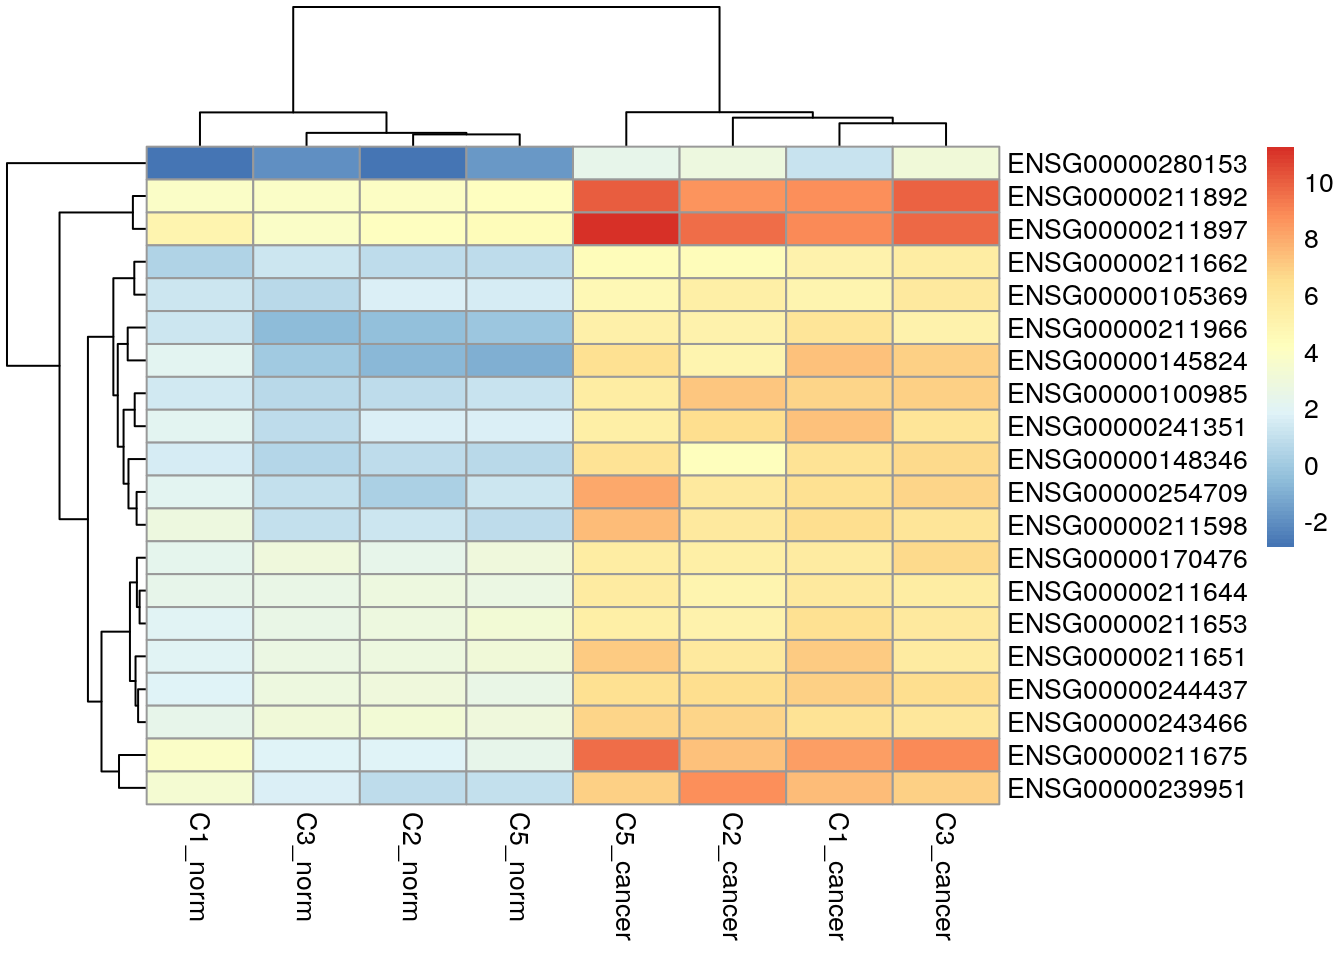
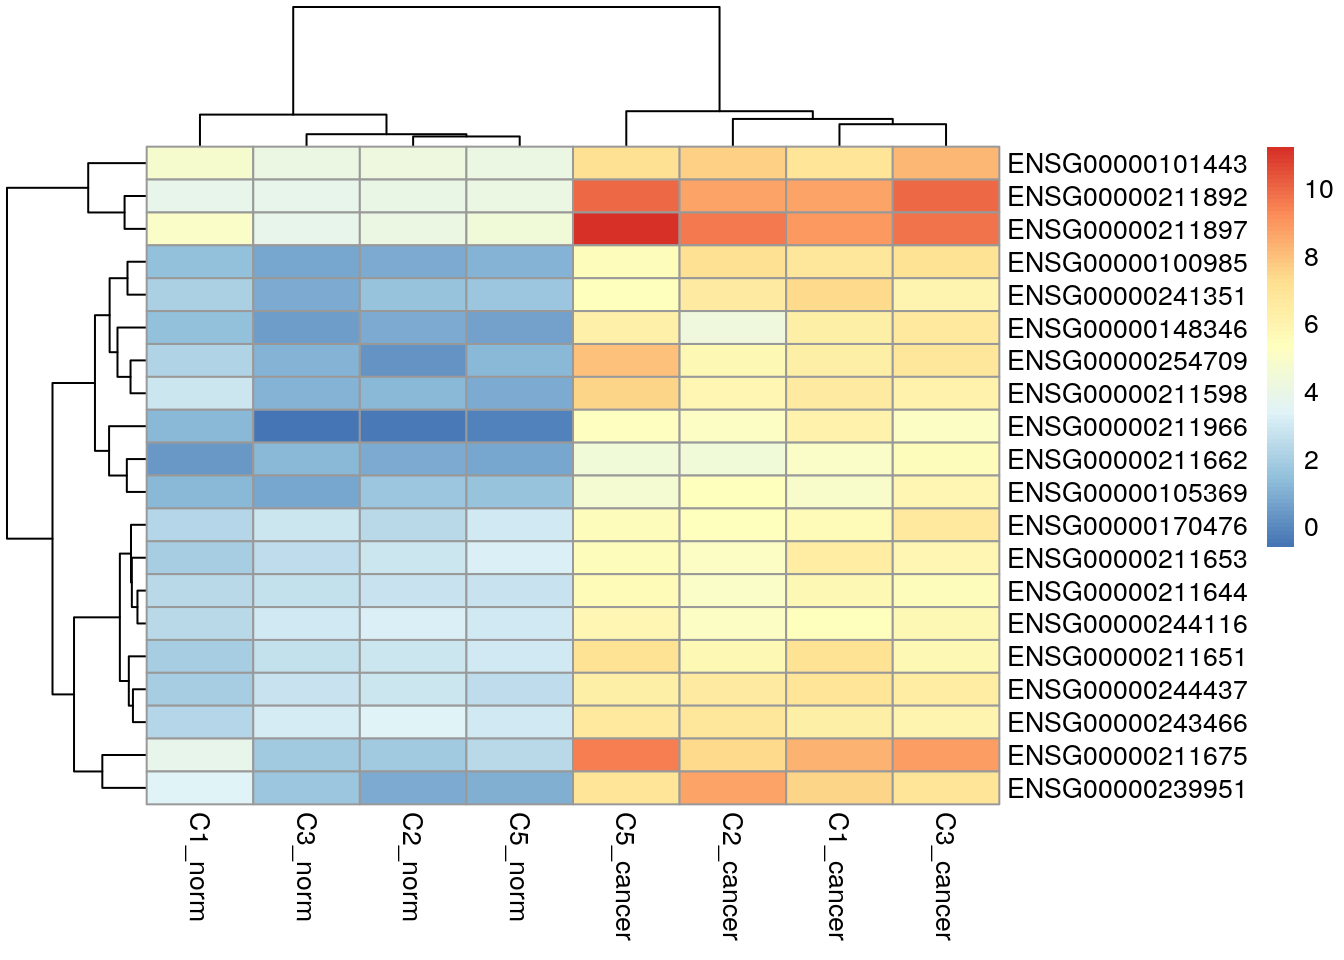
Build site.

diff --git a/docs/edger_de.html b/docs/edger_de.html
@@ -10,7 +10,7 @@
 
 
 
-<meta name="date" content="2024-10-22" />
+<meta name="date" content="2024-10-31" />
 
 <title>Differential gene expression analysis using edgeR</title>
 
@@ -360,7 +360,7 @@ div.tocify {
 
 <h1 class="title toc-ignore">Differential gene expression analysis using
 edgeR</h1>
-<h4 class="date">2024-10-22</h4>
+<h4 class="date">2024-10-31</h4>
 
 </div>
 
@@ -389,7 +389,7 @@ class="glyphicon glyphicon-ok text-success" aria-hidden="true"></span>
 <div class="tab-content">
 <div id="summary" class="tab-pane fade in active">
 <p>
-<strong>Last updated:</strong> 2024-10-22
+<strong>Last updated:</strong> 2024-10-31
 </p>
 <p>
 <strong>Checks:</strong> <span
@@ -520,15 +520,15 @@ project makes it easier to run your code on other machines.</p>
 <div class="panel panel-default">
 <div class="panel-heading">
 <p class="panel-title">
-<a data-toggle="collapse" data-parent="#workflowr-checks" href="#strongRepositoryversionstrongahrefhttpsgithubcomdavetangmusetreedda9d85bb9e9c9117d4f65bbdae02328ae957c9btargetblankdda9d85a">
+<a data-toggle="collapse" data-parent="#workflowr-checks" href="#strongRepositoryversionstrongahrefhttpsgithubcomdavetangmusetree92b951ca79310340c50fbcf9d3d8a59c7278a96btargetblank92b951ca">
 <span class="glyphicon glyphicon-ok text-success"
 aria-hidden="true"></span> <strong>Repository version:</strong>
-<a href="https://github.com/davetang/muse/tree/dda9d85bb9e9c9117d4f65bbdae02328ae957c9b" target="_blank">dda9d85</a>
+<a href="https://github.com/davetang/muse/tree/92b951ca79310340c50fbcf9d3d8a59c7278a96b" target="_blank">92b951c</a>
 </a>
 </p>
 </div>
 <div
[2 lines of base64/hex data omitted]
 class="panel-collapse collapse">
 <div class="panel-body">
 <p>
@@ -538,7 +538,7 @@ reproducibility.
 </p>
 <p>
 The results in this page were generated with repository version
-<a href="https://github.com/davetang/muse/tree/dda9d85bb9e9c9117d4f65bbdae02328ae957c9b" target="_blank">dda9d85</a>.
+<a href="https://github.com/davetang/muse/tree/92b951ca79310340c50fbcf9d3d8a59c7278a96b" target="_blank">92b951c</a>.
 See the <em>Past versions</em> tab to see a history of the changes made
 to the R Markdown and HTML files.
 </p>
@@ -561,6 +561,7 @@ Ignored files:
     Ignored:    r_packages_4.4.0/
 
 Untracked files:
+    Untracked:  data/13970886_edger_res.csv
     Untracked:  rsem.merged.gene_counts.tsv
 
 </code></pre>
@@ -606,6 +607,40 @@ Message
 </tr>
 </thead>
 <tbody>
+<tr>
+<td>
+Rmd
+</td>
+<td>
+<a href="https://github.com/davetang/muse/blob/92b951ca79310340c50fbcf9d3d8a59c7278a96b/analysis/edger_de.Rmd" target="_blank">92b951c</a>
+</td>
+<td>
+Dave Tang
+</td>
+<td>
+2024-10-31
+</td>
+<td>
+Export edgeR results
+</td>
+</tr>
+<tr>
+<td>
+html
+</td>
+<td>
+<a href="https://rawcdn.githack.com/davetang/muse/6aa4e2d485d9f744f1e0119c2d3a7aac934a1eee/docs/edger_de.html" target="_blank">6aa4e2d</a>
+</td>
+<td>
+Dave Tang
+</td>
+<td>
+2024-10-22
+</td>
+<td>
+Build site.
+</td>
+</tr>
 <tr>
 <td>
 Rmd
@@ -723,8 +758,8 @@ BiocManager::install(&quot;edgeR&quot;)</code></pre>
 </div>
 <div id="data" class="section level2">
 <h2>Data</h2>
-<p><a href="https://zenodo.org/records/13970886"
-class="uri">https://zenodo.org/records/13970886</a></p>
+<p>Use data from <a href="https://zenodo.org/records/13970886">An
+example RNA-seq count table using nf-core/rnaseq</a>.</p>
 <pre class="r"><code>my_url &lt;- &#39;https://zenodo.org/records/13970886/files/rsem.merged.gene_counts.tsv?download=1&#39;
 my_file &lt;- &#39;rsem.merged.gene_counts.tsv&#39;
 
@@ -880,17 +915,17 @@ fit &lt;- glmQLFit(y, design, robust=TRUE)
 res &lt;- glmQLFTest(fit)
 topTags(res)</code></pre>
 <pre><code>Coefficient:  y$samples$groupcancer 
-                    logFC   logCPM         F       PValue         FDR
-ENSG00000289381 -7.412756 2.341373 127.60623 2.767866e-08 0.001035846
-ENSG00000151834 -8.027915 3.644102  64.37842 1.049799e-06 0.003612063
-ENSG00000250696 -8.602174 3.809297  63.66033 1.249401e-06 0.003612063
-ENSG00000229894 -9.123230 4.910552  60.16361 1.751012e-06 0.003612063
-ENSG00000100985  5.735426 5.769059  99.70828 2.012691e-06 0.003612063
-ENSG00000167910 -8.022082 3.453041  56.63286 2.199494e-06 0.003612063
-ENSG00000196778 -8.815389 4.237774  56.19864 2.296578e-06 0.003612063
-ENSG00000166091 -7.247200 2.881457  54.63510 2.658697e-06 0.003612063
-ENSG00000240890 -9.077199 4.702122  53.69560 3.074356e-06 0.003612063
-ENSG00000224781 -7.116543 2.556254  51.43346 3.645089e-06 0.003612063</code></pre>
+                    logFC    logCPM         F       PValue          FDR
+ENSG00000289381 -7.411609 2.3413727 156.14405 3.485881e-09 0.0001304556
+ENSG00000100985  5.744629 5.7690594 110.89086 1.418804e-06 0.0058527061
+ENSG00000275332 -7.648126 2.5721238  59.27705 1.721074e-06 0.0058527061
+ENSG00000220695 -9.132437 4.0374574  58.73122 1.982088e-06 0.0058527061
+ENSG00000256422 -5.529837 0.5541825  54.99786 2.395813e-06 0.0058527061
+ENSG00000151834 -8.035376 3.6441016  61.94292 2.733010e-06 0.0058527061
+ENSG00000167910 -8.018047 3.4530411  55.86149 3.928929e-06 0.0058527061
+ENSG00000226443 -5.742734 0.9948963  51.37638 4.209874e-06 0.0058527061
+ENSG00000250696 -8.580216 3.8092969  52.88815 4.376155e-06 0.0058527061
+ENSG00000196778 -8.809149 4.2377739  54.66541 4.439027e-06 0.0058527061</code></pre>
 <p>CPM.</p>
 <pre class="r"><code>my_cpms &lt;- cpm(y, prior.count=2, log=TRUE)
 head(my_cpms)</code></pre>
@@ -919,6 +954,43 @@ ENSG00000000938  5.947951  5.961622</code></pre>
 my_cpms[down_genes, ] |&gt;
   pheatmap()</code></pre>
 <p><img src="figure/edger_de.Rmd/down_regulated_genes-1.png" width="672" style="display: block; margin: auto;" /></p>
+<p>
+<button type="button" class="btn btn-default btn-xs btn-workflowr btn-workflowr-fig" data-toggle="collapse" data-target="#fig-down_regulated_genes-1">
+Past versions of down_regulated_genes-1.png
+</button>
+</p>
+<div id="fig-down_regulated_genes-1" class="collapse">
+<div class="table-responsive">
+<table class="table table-condensed table-hover">
+<thead>
+<tr>
+<th>
+Version
+</th>
+<th>
+Author
+</th>
+<th>
+Date
+</th>
+</tr>
+</thead>
+<tbody>
+<tr>
+<td>
+<a href="https://github.com/davetang/muse/blob/6aa4e2d485d9f744f1e0119c2d3a7aac934a1eee/docs/figure/edger_de.Rmd/down_regulated_genes-1.png" target="_blank">6aa4e2d</a>
+</td>
+<td>
+Dave Tang
+</td>
+<td>
+2024-10-22
+</td>
+</tr>
+</tbody>
+</table>
+</div>
+</div>
 <p>Up-regulated genes with respect to the cancer group.</p>
 <pre class="r"><code>topTags(res, n = Inf) |&gt;
   as.data.frame() |&gt;
@@ -930,6 +1002,65 @@ my_cpms[down_genes, ] |&gt;
 my_cpms[up_genes, ] |&gt;
   pheatmap()</code></pre>
 <p><img src="figure/edger_de.Rmd/up_regulated_genes-1.png" width="672" style="display: block; margin: auto;" /></p>
+<p>
+<button type="button" class="btn btn-default btn-xs btn-workflowr btn-workflowr-fig" data-toggle="collapse" data-target="#fig-up_regulated_genes-1">
+Past versions of up_regulated_genes-1.png
+</button>
+</p>
+<div id="fig-up_regulated_genes-1" class="collapse">
+<div class="table-responsive">
+<table class="table table-condensed table-hover">
+<thead>
+<tr>
+<th>
+Version
+</th>
+<th>
+Author
+</th>
+<th>
+Date
+</th>
+</tr>
+</thead>
+<tbody>
+<tr>
+<td>
+<a href="https://github.com/davetang/muse/blob/6aa4e2d485d9f744f1e0119c2d3a7aac934a1eee/docs/figure/edger_de.Rmd/up_regulated_genes-1.png" target="_blank">6aa4e2d</a>
+</td>
+<td>
+Dave Tang
+</td>
+<td>
+2024-10-22
+</td>
+</tr>
+</tbody>
+</table>
+</div>
+</div>
+</div>
+<div id="export-results" class="section level2">
+<h2>Export results</h2>
+<p>Results are stored in <code>res</code>.</p>
+<pre class="r"><code>class(res)</code></pre>
+<pre><code>[1] &quot;DGELRT&quot;
+attr(,&quot;package&quot;)
+[1] &quot;edgeR&quot;</code></pre>
+<p>Specifically, in <code>res$table</code>.</p>
+<pre class="r"><code>head(res$table)</code></pre>
+<pre><code>                     logFC   logCPM          F      PValue
+ENSG00000000003  2.7275199 4.832838  4.2763383 0.068387013
+ENSG00000000005 -7.0023947 0.540980 17.6315738 0.002159975
+ENSG00000000419  0.1201226 5.339964  0.1140066 0.743147316
+ENSG00000000457 -0.7079087 5.306090  3.3541835 0.099292833
+ENSG00000000460 -0.8967285 3.947381  2.6625206 0.136187708
+ENSG00000000938  1.5368400 5.597107  1.8649388 0.205160993</code></pre>
+<p>Add adjusted p-values and export.</p>
+<pre class="r"><code>res$table |&gt;
+  dplyr::mutate(adjusted_pvalue = p.adjust(PValue, method = &quot;BH&quot;)) |&gt;
+  tibble::rownames_to_column(&quot;ensembl_gene_id&quot;) |&gt;
+  readr::write_csv(file = &quot;data/13970886_edger_res.csv&quot;)</code></pre>
 <br>
 <p>
 <button type="button" class="btn btn-default btn-workflowr btn-workflowr-sessioninfo" data-toggle="collapse" data-target="#workflowr-sessioninfo" style="display: block;">
@@ -962,7 +1093,7 @@ attached base packages:
 [1] stats     graphics  grDevices utils     datasets  methods   base     
 
 other attached packages:
- [1] pheatmap_1.0.12 ggrepel_0.9.5   edgeR_4.2.1     limma_3.60.4   
+ [1] pheatmap_1.0.12 ggrepel_0.9.5   edgeR_4.2.2     limma_3.60.6   
  [5] lubridate_1.9.3 forcats_1.0.0   stringr_1.5.1   dplyr_1.1.4    
  [9] purrr_1.0.2     readr_2.1.5     tidyr_1.3.1     tibble_3.2.1   
 [13] ggplot2_3.5.1   tidyverse_2.0.0 workflowr_1.7.1
